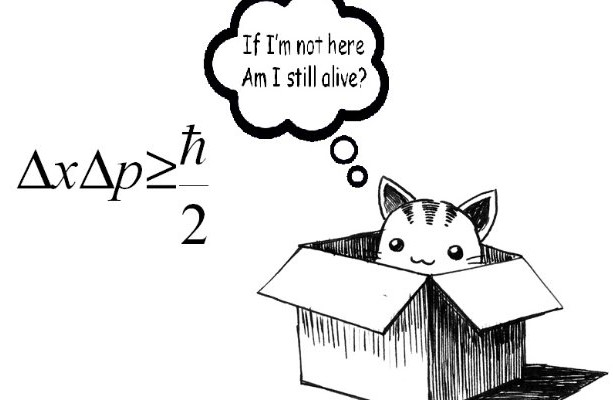
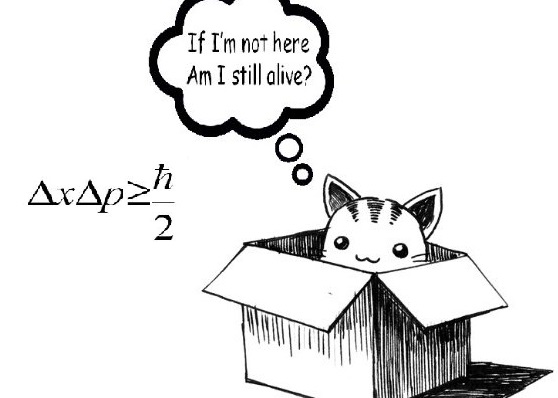
entry point now works, removed the shape error in hamiltonian.

Changed region(s): [[0.0305, 0.0, 1.0, 1.0], [0.2742, 0.5126, 0.3351, 0.6332]]

diff --git a/SEq/seq.py b/SEq/seq.py
@@ -9,7 +9,7 @@ def create_parser():
     parser = argparse.ArgumentParser(description = "Inputs to the Schrodinger Equation solver")
     parser.add_argument('-V0', '--potential', nargs = '?', type = float, default = 2, help = 'Constant potential energy, default = 0.1')
     parser.add_argument('-c', '--constant', nargs = '?', type = float, default = 1, help = 'Constant multiplier for the laplacian term of the hamiltonian, default = 1')
-    parser.add_argument('-s', '--basis_size', nargs = '?', type = float, default = 3, help = 'Size of the basis set, default = 3')
+    parser.add_argument('-s', '--basis_size', nargs = '?', type = int, default = 10, help = 'Size of the basis set, default = 3')
     parser.add_argument('-ch', '--basis_choice', nargs = '?', type = str, default = 'Legendre', choices = ['Legendre', 'legendre', 'Fourier', 'fourier'], help = 'Choice of basis set - Fourier or Legendre, default = Legendre')
     parser.add_argument('-d', '--domain', nargs = '?', type = tuple, default = (-1, 1), help = 'Domain for the basis set, default = [-1, 1]. Please input a tuple.')
     parser.add_argument('-y', '--wave_function', nargs = '?', type = str, default = 'cos(x)', help = 'Specify a guess for the wave function, default = cos(x). Expression for wave function must be written as a python-formatted mathematical string.')
@@ -106,6 +106,7 @@ def hamiltonian(ch, x, y, c, V0, basis_set):
         del2_basis = np.append(del2_basis, [0,0])
     elif(ch == 'Fourier' or ch == 'fourier'):
         del2_basis = np.gradient(np.gradient(y, x)) #np.gradient uses central difference method to give the derivative.
+    #print(del2_basis.shape)
     h = [-c * del2_basis + V0 * np.array(basis_set)]
     H = np.matmul(np.transpose([basis_set]), h) # (nx1)x(1xn) = (nxn) matrix multiplication
     return H
@@ -148,18 +149,21 @@ def main(): #pragma: no cover
     parser = create_parser()
     args = parser.parse_args()
     
+    print('Started!')
     V0 = args.potential
     c = args.constant
     basis_size = args.basis_size
     choice = args.basis_choice
     (lower_lim, upper_lim) = args.domain
     output_file = args.output_file
-
-    x = np.linspace(lower_lim, upper_lim, 100) # 100 points in the domain
+    #print(args.wave_function)
+    x = np.linspace(lower_lim, upper_lim, basis_size) 
     wave_func = wave_function(args.wave_function, x)
+    #print(wave_func)
 
-    basis_set = basis_set(ch = choice, x = x, y = wave_func, basis_size = basis_size)
-    H = hamiltonian(ch = choice, x = x, y = wave_func, c = c, V0 = V0, basis_set = basis_set)
+    basis = basis_set(ch = choice, x = x, y = wave_func, basis_size = basis_size)
+    H = hamiltonian(ch = choice, x = x, y = wave_func, c = c, V0 = V0, basis_set = basis)
     coefficients, Energy = eigen(H)
 
     write_output(output_file, coefficients)
+    print('\nDone! Please see the output file for results.')

diff --git a/setup.py b/setup.py
@@ -1,17 +1,17 @@
 from distutils.core import setup
+from setuptools import setup, find_packages
 
 with open('Readme.md') as f:
       long_description = ''.join(f.readlines())
 
 setup(name='Schrodinger',
-      version='0.1',
+      version='0.0.1',
       description='Solution to the Schrodinger Equation',
       author='Heta Gandhi',
       author_email='hgandhi@ur.rochester.edu',
-      packages=['SEq'],
+      packages=find_packages(),
       entry_points = 
       {
-            'console_scripts': ['solve=SEq.seq:main']
+            'console_scripts': ['solver=SEq.seq:main']
       }
       )
-     

diff --git a/ReadMe.md b/ReadMe.md
@@ -5,7 +5,7 @@
 
 ## Overview
 ---
-<img align="right" width="310"  src="./img/cat.jpg">
+<img align="right" width="300"  src="./img/cat.jpg">
 
 Quantum mechanics is the study of small particles, of the order of an atom. Schrödinger equation was developed by Erwin Schrodinger to describe the behaviour of quantum mechanical systems. The Schrödinger equation describes how a quantum system changes with time and characterizes the permitted stationary states of a quantum mechanical system.
 
@@ -18,8 +18,9 @@ The Schrödinger equation is given by:
 
 Where ![img](http://latex.codecogs.com/svg.latex?%5Chat%7BH%7D) is a Hamiltonian operator on a given wave function ![img](http://latex.codecogs.com/svg.latex?%5Cpsi%28x%29), *E* is the energy of the state, ![img](http://latex.codecogs.com/svg.latex?%24%24V_0%24%24) is a constant potential energy, *c* is a constant, and ![img](http://latex.codecogs.com/svg.latex?%5Cnabla%5E2) is the Laplacian. The wave function that satisfies this equation is the one that describes the system.
 
+Variation Method can be used to get approximate solutions for this equation.
+
 ## Installation
----
 
 To install the package, follow the following steps:
 ```
@@ -28,7 +29,35 @@ git clone  https://github.com/hgandhi2411/Schrodinger.git
 pip install Schrodinger
 ```
 ## Features
----
 
+This solver can solve the schrodinger equation for basis sets from Legendre polynomials or Fourier series.
 ## Usage and Examples
----
+
+After installation, you can use the entry point 'solver' to start the program and get the basis set coefficients.The following flags/keywords can be used to change the parameters through the command line.
+```
+-V0, --potential: Specify the potential Vo, default is 2.
+
+-c, --constant: The constant multiplied to the laplacian term in the hamiltonian, default is 0.1.
+
+-ch, --choice: Specify the type of basis set, choose from Legendre or Fourier. Default is legendre.
+
+-s, --basis_size: Select the number of basis set elements to use, default is 10.
+
+-d, --domain: Select the domain over which the basis set should be used, default is [-1,1].
+
+-y, --wave_function: Give the wave function you want to use, default is cos(x). This should be a python-formatted mathematical string.
+
+--output_file: Specify the file path to write the output. By default, a file named output.txt is created in the SEq directory.
+```
+
+An example of execution is:
+```
+..\Schrodinger> $ solver -y x**2+2*x -ch fourier -s 5
+```
+and in the output you see:
+```
+Started!
+
+Done! Please see the output file for results.
+```
+The output file contains the desired basis set coefficients.
